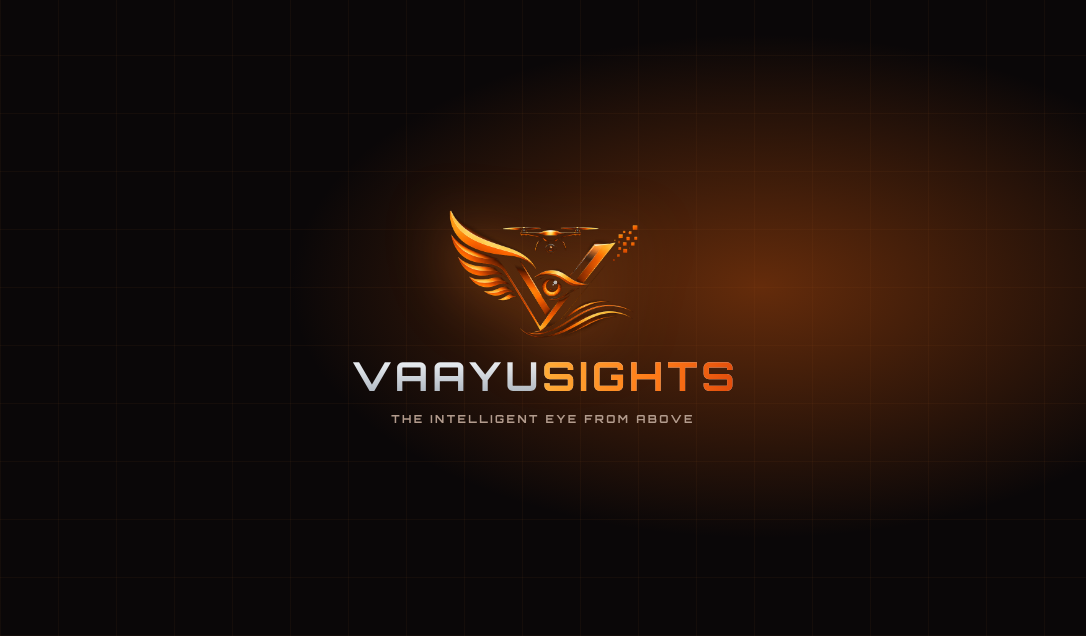
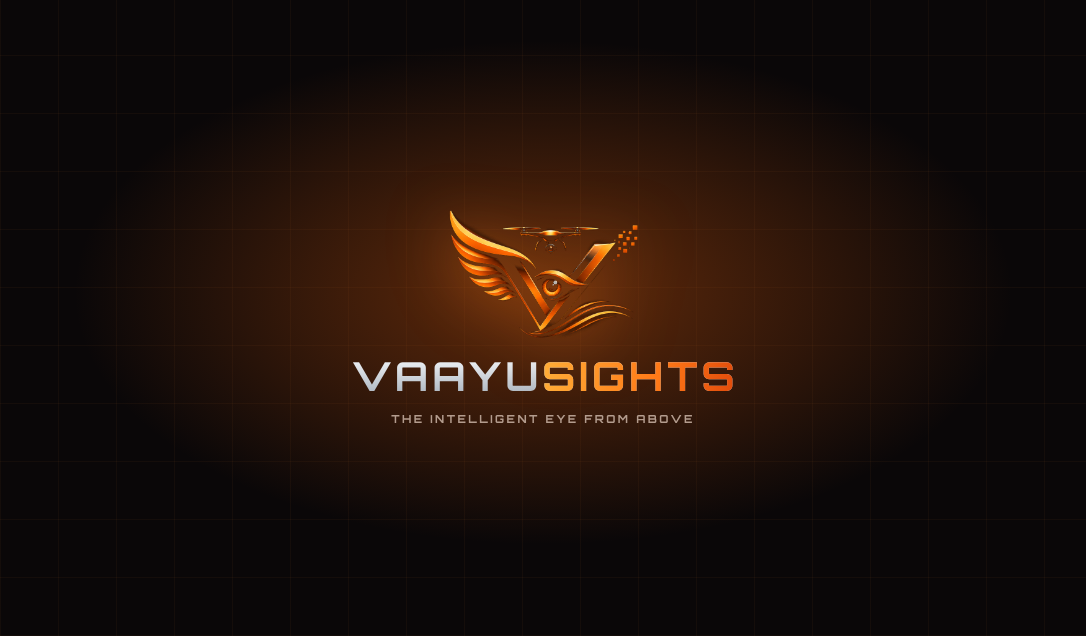
Audit the whole brand pack and correct what the emblem fix exposed
Went through every asset. Five real faults, plus documentation that was
quietly wrong.

Site icons never rebuilt. vaayusights-icon.png and apple-touch-icon.png
still carried the stray emblem fragment and sat left of centre — they are
the favicon and the home-screen icon, on every page. Rebuilt from the
corrected emblem, centred, mark raised to match the other square logos.

Business card front. The lockup is centred but its glow was anchored at
70%, lighting empty board to the right of the mark. Moved to 50%.

Business card back. Type sat 3.2mm inside the trim, which is the bare
minimum with no slack for a cut that drifts. Padding raised so every edge
now clears 5mm.

Post 3, thermal. The background is a real thermal survey that already has
three detection boxes drawn on it, and we had drawn three more of our own
in different places — six boxes, and one of the real ones bled through the
footer behind the URL. Re-cropped so the real detections sit in the middle
band clear of the headline and footer, and aligned our two highlight boxes
onto the actual hotspots. We now label real findings instead of inventing
extra ones, which is what the honesty rule asks for anyway.

Posts 2 and 4. Content was pinned to the top with a void beneath — nearly
half the canvas on post 4. Balanced so the body sits between the headline
and the footer.

README. Documented logo/backgrounds/, which was undocumented and contains
[…]

Changed region(s): [[0.6381, 0.1792, 1.0, 0.717], [0.1823, 0.1792, 0.547, 0.7469]]

diff --git a/assets/brand/README.md b/assets/brand/README.md
@@ -62,6 +62,22 @@ hello@ out of habit. A bounced first enquiry is not worth the saving.
 | `linkedin-logo.png` | LinkedIn page logo (300×300) |
 | `linkedin-banner.png` | LinkedIn cover (1512×256, same design as `linkedin-cover-1512x256.png`) |
 
+### `logo/backgrounds/`
+
+Reference sheets, not assets to send anyone. They show what the logo does on
+five grounds, including the two it fails on.
+
+| File | What it shows |
+|---|---|
+| `vaayusights-on-dark.png` | Correct. The colour logo as intended. |
+| `vaayusights-on-blue.png` | Correct. Holds on a mid-dark brand colour. |
+| `vaayusights-black-on-white.png` | Correct. The one-colour file on a light ground. |
+| `vaayusights-on-white.png` | **A failure, shown on purpose.** The colour logo on white — "VAAYU" washes out. |
+| `vaayusights-on-grey.png` | **A failure, shown on purpose.** Same problem on mid-grey. |
+
+Despite the name, `vaayusights-on-white.png` is not the file to use on a white
+page. That is `logo/vaayusights-full-black.png`.
+
 ### `print/`
 | File | Notes |
 |---|---|
@@ -69,7 +85,8 @@ hello@ out of habit. A bounced first enquiry is not worth the saving.
 | `business-card-back.png` | Same. **Fill in name, role and phone before printing.** |
 
 Give the printer both files and tell them the 3mm bleed is already included.
-Keep text at least 4mm inside the trim edge.
+Type sits at least 5mm inside the trim edge on both faces, so a cut that
+drifts a millimetre still looks deliberate.
 
 ### Documents
 - `vaayusights-one-pager.pdf` — A4 services overview, for emailing prospects
